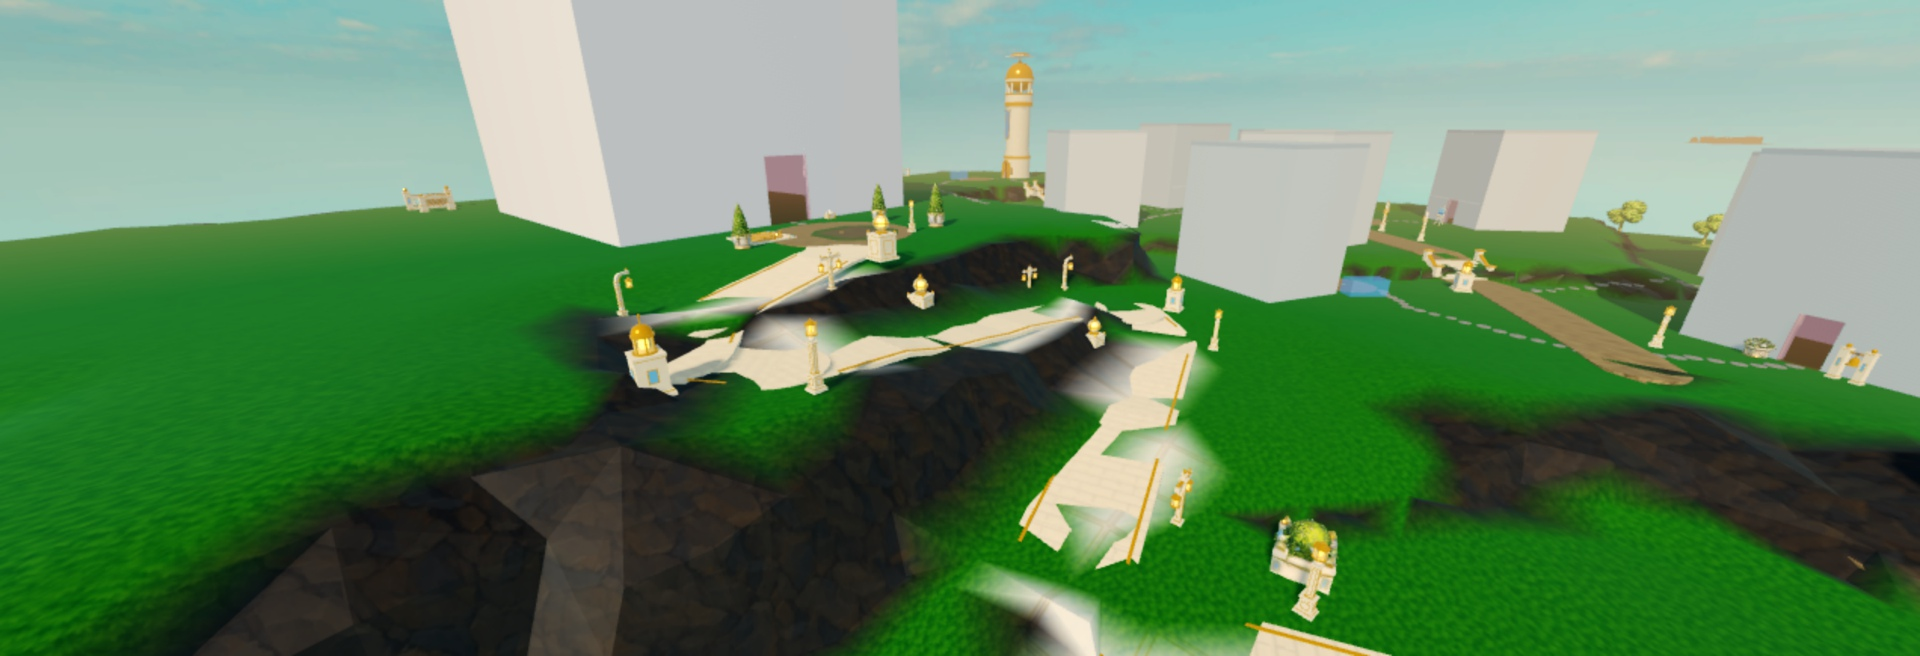
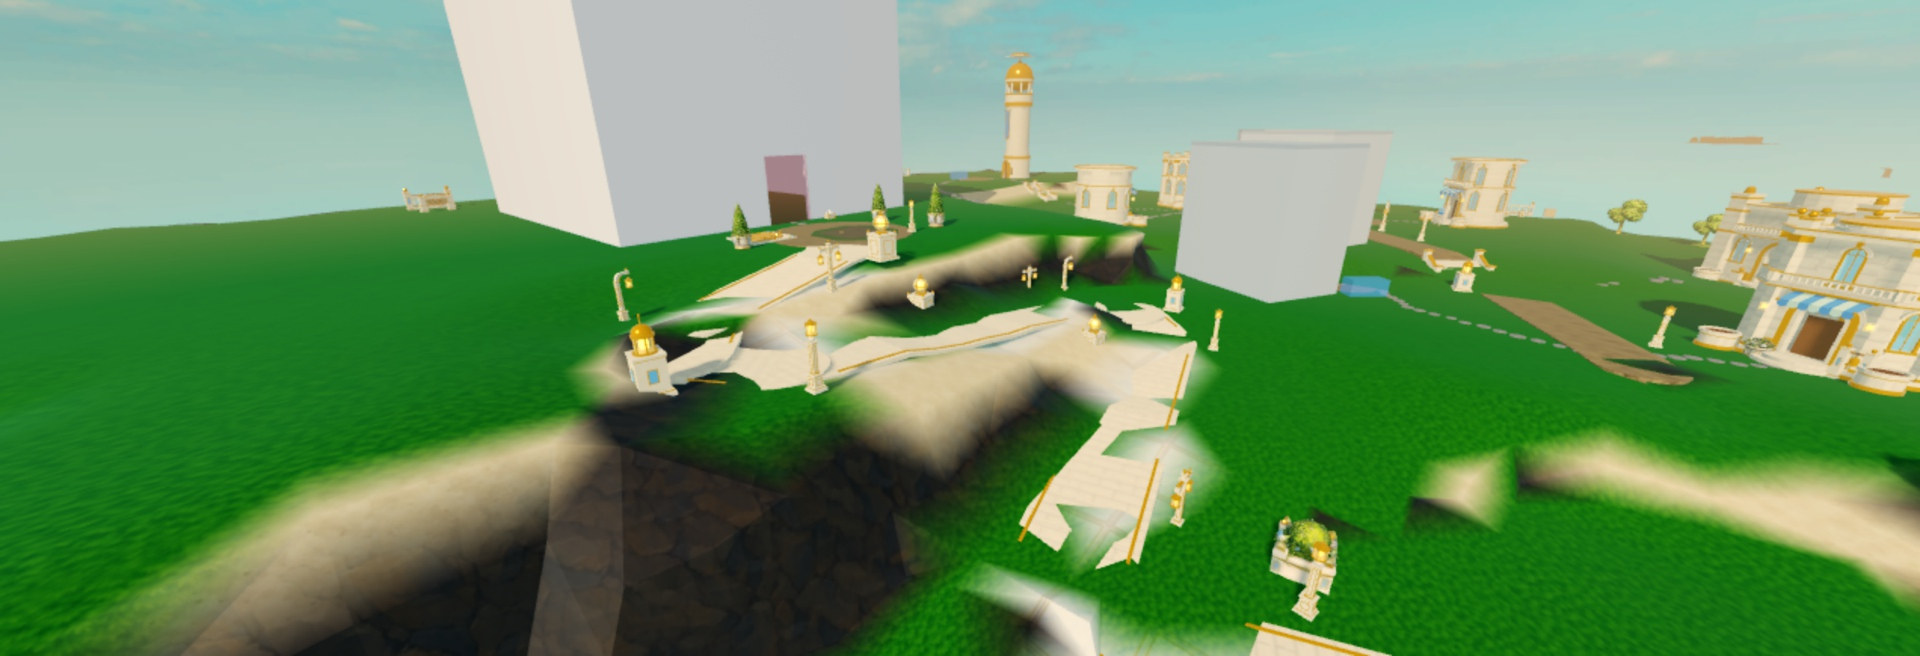
빛 마을 집·가게 골격 자리 사진 8장·Limestone 턱 2장

diff --git a/tools/worldkit/ground_shots.py b/tools/worldkit/ground_shots.py
@@ -158,7 +158,29 @@ def review2_spec():
     return [dict(name=n, cam=c, look=l, clear=False) for n, c, l in out]
 
 
-shots = door_spec() if "--doors" in sys.argv else review2_spec() if "--review2" in sys.argv else spec()
+def houses_spec():
+    """--houses (10/11 밤): 이미지 생성 3's house / shop skeletons at their plan spots, one shot per group, from the door side"""
+    B = {b["id"]: b for b in PLAN["buildings"]}
+    out = []
+    for name, ids, dist, hgt in (("h_01_market", ("Shop_Potion", "Shop_Flower", "Shop_Bakery", "Shop_Juice"), 34, 22),
+                                  ("h_02_hill", ("House_Hill1", "House_Hill2", "House_Hill3"), 40, 26),
+                                  ("h_03_cliff_lower", ("House_Cliff1", "House_Cliff2"), 34, 18),
+                                  ("h_04_cliff_upper", ("House_Cliff3", "House_Cliff4", "House_Cliff5"), 44, 26),
+                                  ("h_05_garden", ("House_Garden1", "House_Garden2", "House_Garden3", "House_Garden4"), 50, 30)):
+        bs = [B[i] for i in ids]
+        cx, cz = sum(b["x"] for b in bs) / len(bs), sum(b["z"] for b in bs) / len(bs)
+        ux, uz = sum(b["door_dir"][0] for b in bs), sum(b["door_dir"][1] for b in bs)
+        n = math.hypot(ux, uz) or 1.0
+        out.append((name, g(cx + ux / n * dist, cz + uz / n * dist, hgt), g(cx, cz, 4)))
+    for bid in ("House_Hill1", "Shop_Bakery", "House_Garden3"):  # close door shots (05 the widest, a shop with an off-centre door, 07)
+        b = B[bid]
+        (ax, az), (ux, uz) = b["door_at"], b["door_dir"]
+        out.append(("h_door_" + bid, ab(ax + ux * 14 + uz * 4, b["ground_y"] + 6, az + uz * 14 - ux * 4), ab(ax, b["ground_y"] + 3, az)))
+    return [dict(name=n, cam=c, look=l, clear=False) for n, c, l in out]
+
+
+shots = (door_spec() if "--doors" in sys.argv else review2_spec() if "--review2" in sys.argv else
+         houses_spec() if "--houses" in sys.argv else spec())
 only = [a for a in sys.argv[1:] if not a.startswith("--")]
 if only:
     shots = [s for s in shots if any(s["name"].startswith(o) for o in only)]
